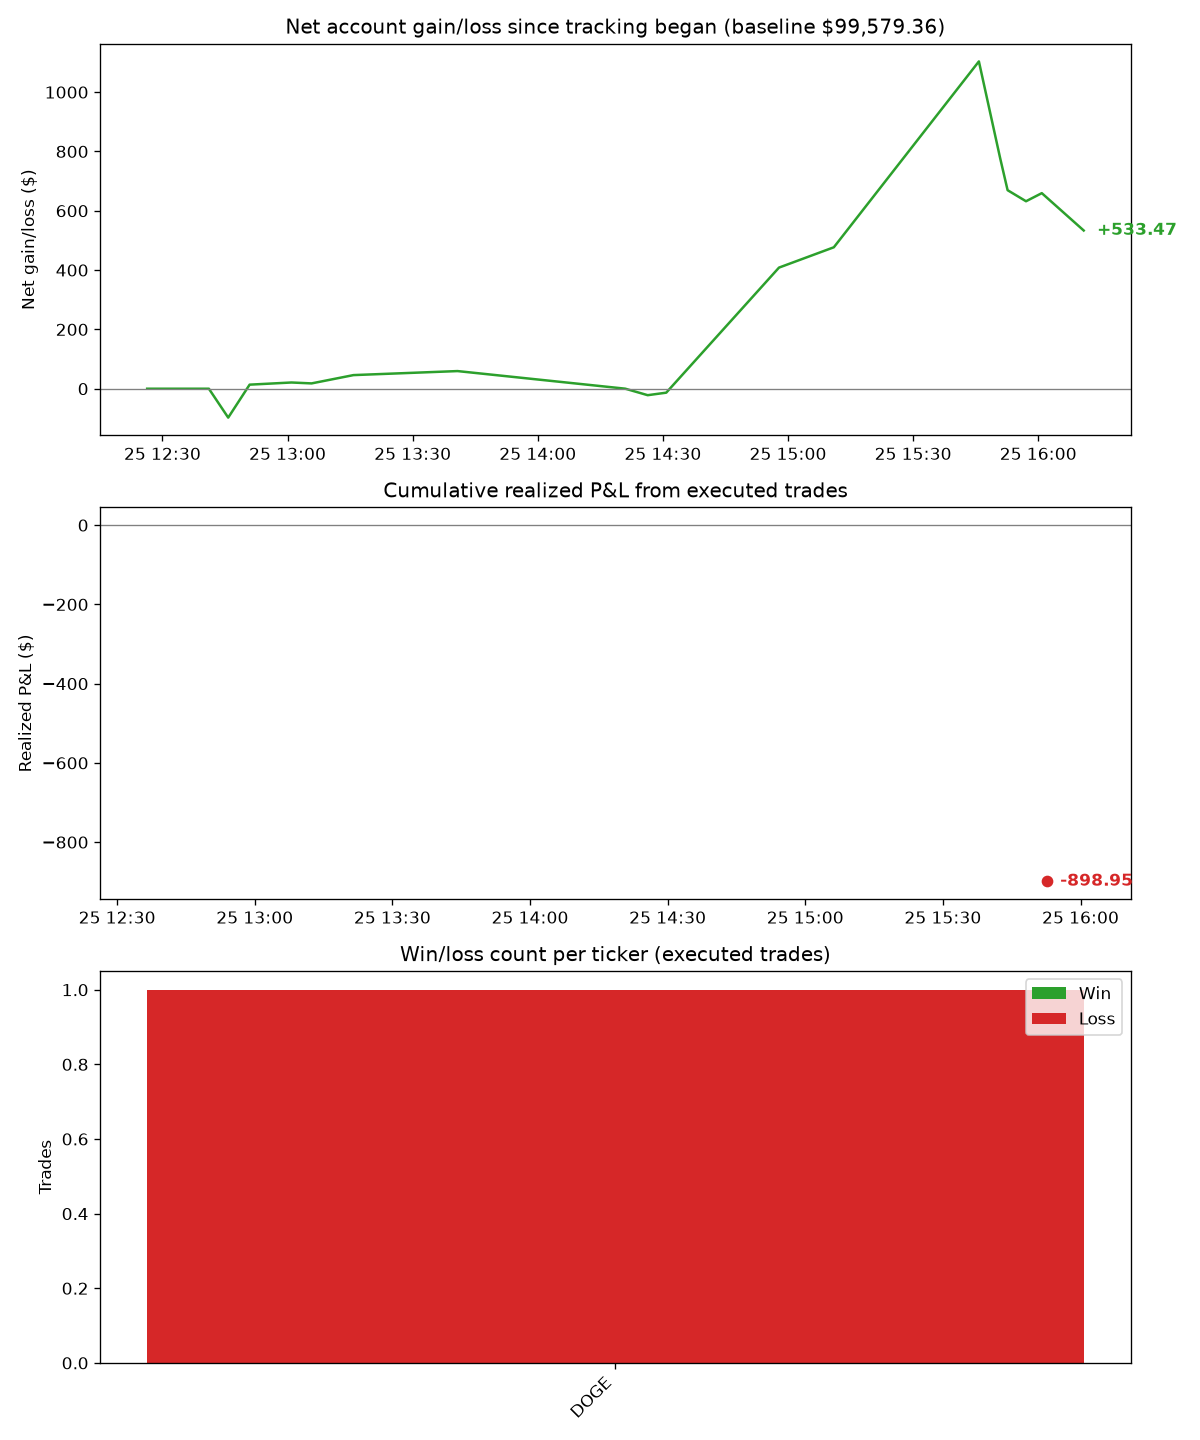
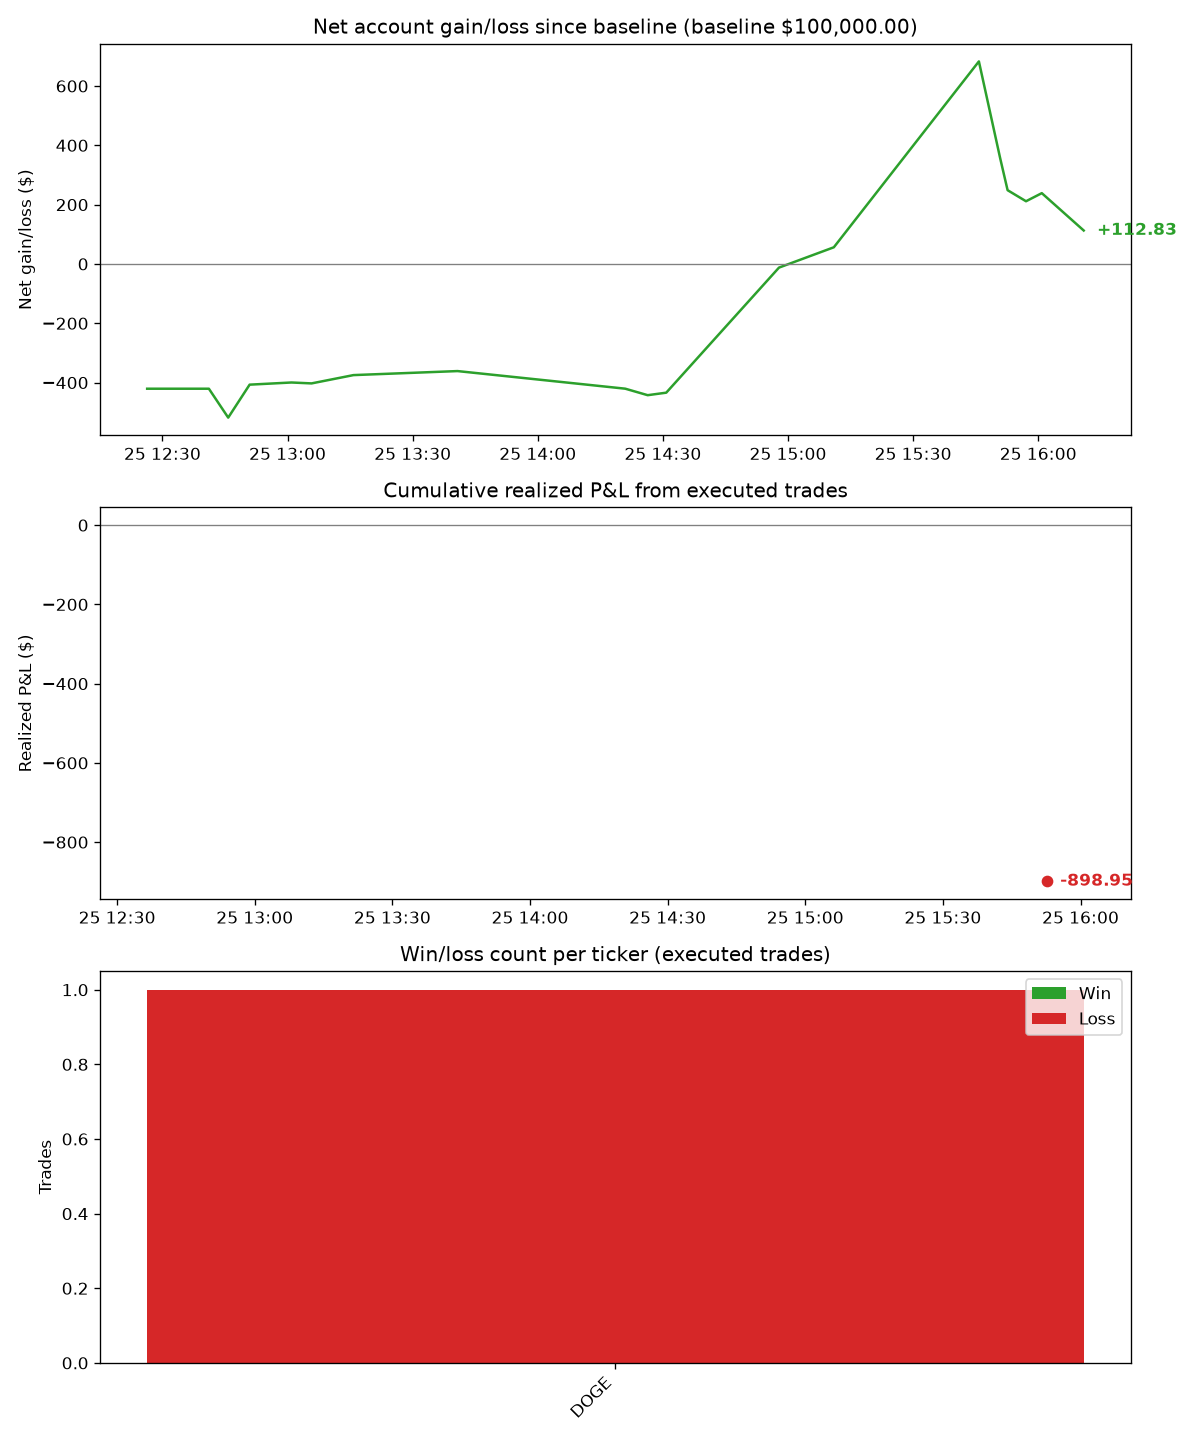
Add --baseline flag to visualize_log.py; fix real user confusion
Default net-gain/loss baseline was the first row of equity_log.csv -
i.e. whenever equity logging happened to start, not when the account
was actually funded. Since real trades (DOGE/SOL/LTC buys) happened
before logging began, the chart showed "+$659.40" while the Alpaca
dashboard's own since-funding total showed "+$112.83" at the same
moment - both numbers were correct, they just measured from different
starting points, and showing only one caused real confusion about
whether the account was actually up or down.

Added --baseline to measure from an explicit value instead (e.g.
--baseline 100000 for actual starting cash), with the chart title
naming which baseline is in use. The hourly automated workflow now
passes --baseline 100000 so the chart on GitHub always shows the
true since-funding number. Verified it now matches Alpaca's own
dashboard figure exactly (+$112.83) at the same point in time.

diff --git a/visualize_log.py b/visualize_log.py
@@ -49,6 +49,13 @@ def main():
     parser.add_argument("--equity-log", default="logs/equity_log.csv")
     parser.add_argument("--trade-log", default="logs/trade_log.csv")
     parser.add_argument("--out", default="results/trade_dashboard.png")
+    parser.add_argument("--baseline", type=float, default=None,
+                         help="account value to measure net gain/loss from, e.g. --baseline 100000 "
+                              "for your original funding amount. Without this, the baseline is "
+                              "whatever the first row of --equity-log happens to be - which is "
+                              "wherever equity logging started, not necessarily when the account "
+                              "was funded, so it can understate gains or losses that happened "
+                              "before logging began.")
     args = parser.parse_args()
 
     equity_df = load_csv(args.equity_log)
@@ -68,12 +75,17 @@ def main():
 
     ax = axes[0]
     if equity_df is not None:
-        baseline = equity_df["portfolio_value_usd"].iloc[0]
+        if args.baseline is not None:
+            baseline = args.baseline
+            baseline_label = "since baseline"
+        else:
+            baseline = equity_df["portfolio_value_usd"].iloc[0]
+            baseline_label = "since tracking began"
         net = equity_df["portfolio_value_usd"] - baseline
         color = "tab:green" if net.iloc[-1] >= 0 else "tab:red"
         ax.plot(equity_df["timestamp_utc"], net, color=color)
         ax.axhline(0, color="gray", linewidth=0.8)
-        ax.set_title(f"Net account gain/loss since tracking began (baseline ${baseline:,.2f})")
+        ax.set_title(f"Net account gain/loss {baseline_label} (baseline ${baseline:,.2f})")
         ax.set_ylabel("Net gain/loss ($)")
         ax.annotate(
             f"{net.iloc[-1]:+,.2f}",

diff --git a/README.md b/README.md
@@ -702,21 +702,34 @@ data - a real bug that motivated this rewrite), is archived at
 `logs/trade_log_archive_pre_2026-07-25.csv`.
 
 **`python visualize_log.py`** turns both files into a three-panel PNG
-(`results/trade_dashboard.png` by default): net account gain/loss over
-time (equity minus its own first logged value, so it reads as a direct
-"+$X"/"-$X"), cumulative realized P&L from executed trades, and win/loss
-counts per ticker. Run it locally anytime for an on-demand snapshot -
-harmless, no network/broker access needed, just reads the two log files.
+(`results/trade_dashboard.png` by default): net account gain/loss,
+cumulative realized P&L from executed trades, and win/loss counts per
+ticker. Run it locally anytime for an on-demand snapshot - harmless, no
+network/broker access needed, just reads the two log files.
+
+**The first panel's baseline matters and is easy to misread.** By
+default it's equity minus the *first* row of `logs/equity_log.csv` -
+i.e. "gain/loss since equity logging happened to start," which is not
+the same as "since you funded the account," especially if trades were
+already open before logging began. Pass `--baseline 100000` (or
+whatever your actual starting cash was) to measure from your real
+starting point instead - the title changes to make clear which one
+you're looking at. Both are valid, they just answer different
+questions, and showing only the "since tracking began" one is what
+caused real confusion once - it can look like it disagrees with what
+Alpaca's own dashboard says, when both are actually correct, just
+measuring from different starting points.
 
 It also runs on a schedule: `.github/workflows/update-dashboard.yml`
-regenerates and commits `results/trade_dashboard.png` roughly hourly (via
-an external scheduler - GitHub's own `schedule:` trigger isn't reliable
-enough on its own here either, same as the trading workflows), so
-`results/trade_dashboard.png` on GitHub is close to current without
-needing to run anything locally - just open that file's page on
-github.com. This is deliberately a slower cadence than the 5-minute
-trading workflows: one image commit an hour is a small, bounded cost,
-where committing an image every 5 minutes forever would not be.
+regenerates and commits `results/trade_dashboard.png` roughly hourly
+(with `--baseline 100000`, via an external scheduler - GitHub's own
+`schedule:` trigger isn't reliable enough on its own here either, same
+as the trading workflows), so `results/trade_dashboard.png` on GitHub
+is close to current without needing to run anything locally - just open
+that file's page on github.com. This is deliberately a slower cadence
+than the 5-minute trading workflows: one image commit an hour is a
+small, bounded cost, where committing an image every 5 minutes forever
+would not be.
 
 ### Stock automation: ML with periodic retraining
 
